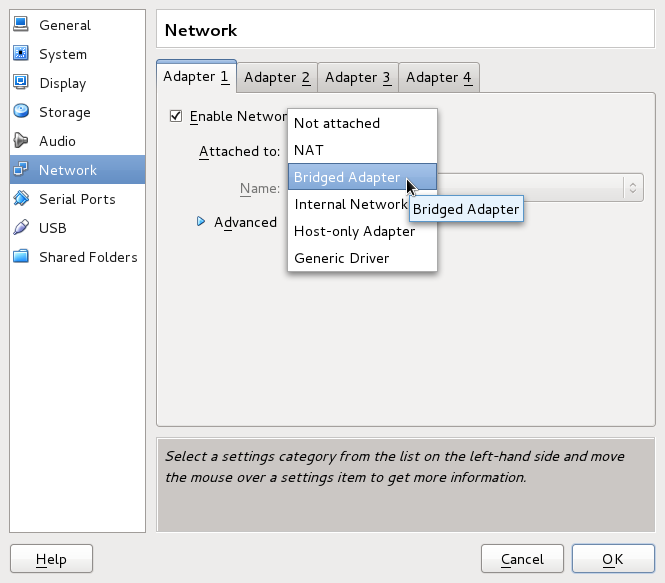
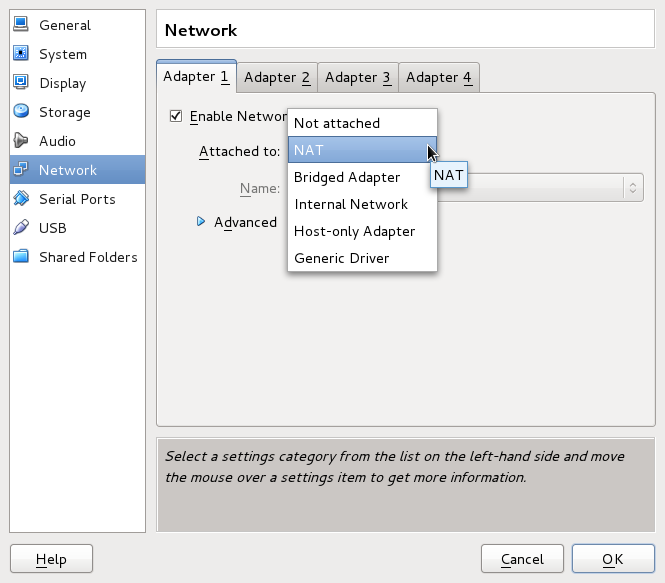
Started Network Adapter Settings section of sandbox.rst

Changed region(s): [[0.4211, 0.2161, 0.812, 0.4014]]

diff --git a/source/sandbox.rst b/source/sandbox.rst
@@ -38,38 +38,36 @@ Install Ubuntu as a guest OS by following the instructions in the `Ubuntu
 Community Documentation
 <https://help.ubuntu.com/community/Ubuntu_as_Guest_OS>`_.
 
-NAT vs. Bridged Adapter
------------------------
+Network Adapter Settings
+------------------------
 
-By default, a new VirtualBox guest will be attached to the outside world via
+In order to configure the virtual network adapters of your new Schooltool server, 
+click on the "Network" section of the VirtualBox administrative 
+interface.
+
+    .. image:: images/virtualbox-01.png
+
+By default, a new VirtualBox guest should be attached to the outside world via
 Network Address Translation (NAT), which enables the guest machine to reach the
 Internet, but via a private IP address which is not accessible from the host, or
 other machines on your local network.
 
-In order to access the SchoolTool server from the host computer or any other
-computer on your local network, you will need
-to click on the "Network" section of the VirtualBox administrative 
-interface:
-
-    .. image:: images/virtualbox-01.png
-
-... and change the network attachment type from NAT to Bridged Adapter.
-
     .. image:: images/virtualbox-02.png
 
-After doing this, reboot your virtual machine in order for the new network 
-configuration to take effect. This will expose the virtual network adapter of
-your SchoolTool virtual machine to the local network, just as if it were an
-actual physical server.
+This will allow you to access the Internet from within the virtual machine, so
+you can update your Ubuntu Server packages, and install SchoolTool along with
+all of its dependencies. But it won't allow you to access SchoolTool's
+adminitrative interface from a browser on the host, or allow multiple virtual
+machines to access each other.
 
-Log on to the virtual machine and run ``ifconfig`` on the command line
-to determine the new IP
-address assigned to the virtual network adapter, then access your SchoolTool
-server instance at that IP address on port 7080. For example, if ``ifconfig``
-tells you that the IP address for eth0 is ``192.168.138.171``, then you would
-access SchoolTool at ``http://192.168.138.171:7080``.
+In order to access the SchoolTool server from the host computer or any other
+computer on your local network, you'll need to add a second network adapter to
+the guest machine.
 
     .. image:: images/virtualbox-03.png
+
+After doing this, reboot your virtual machine in order for the new network 
+configuration to take effect.
 
 It is possible to deploy SchoolTool in production on a virtual server
 (including one running on Windows or Mac OS X), but the full setup and configuration is 
